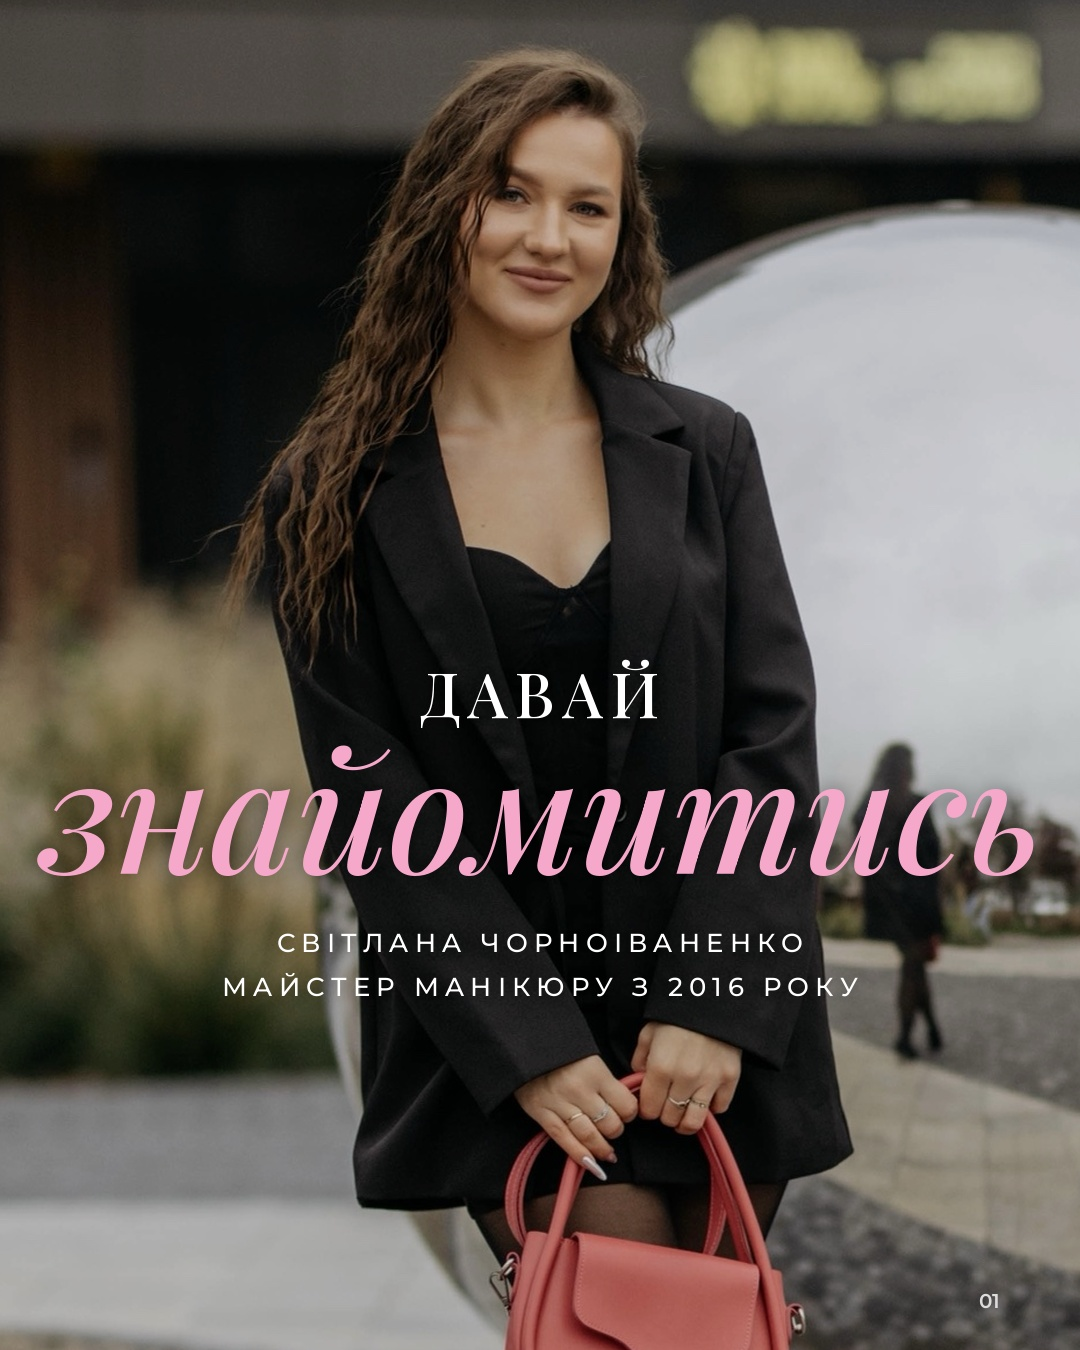
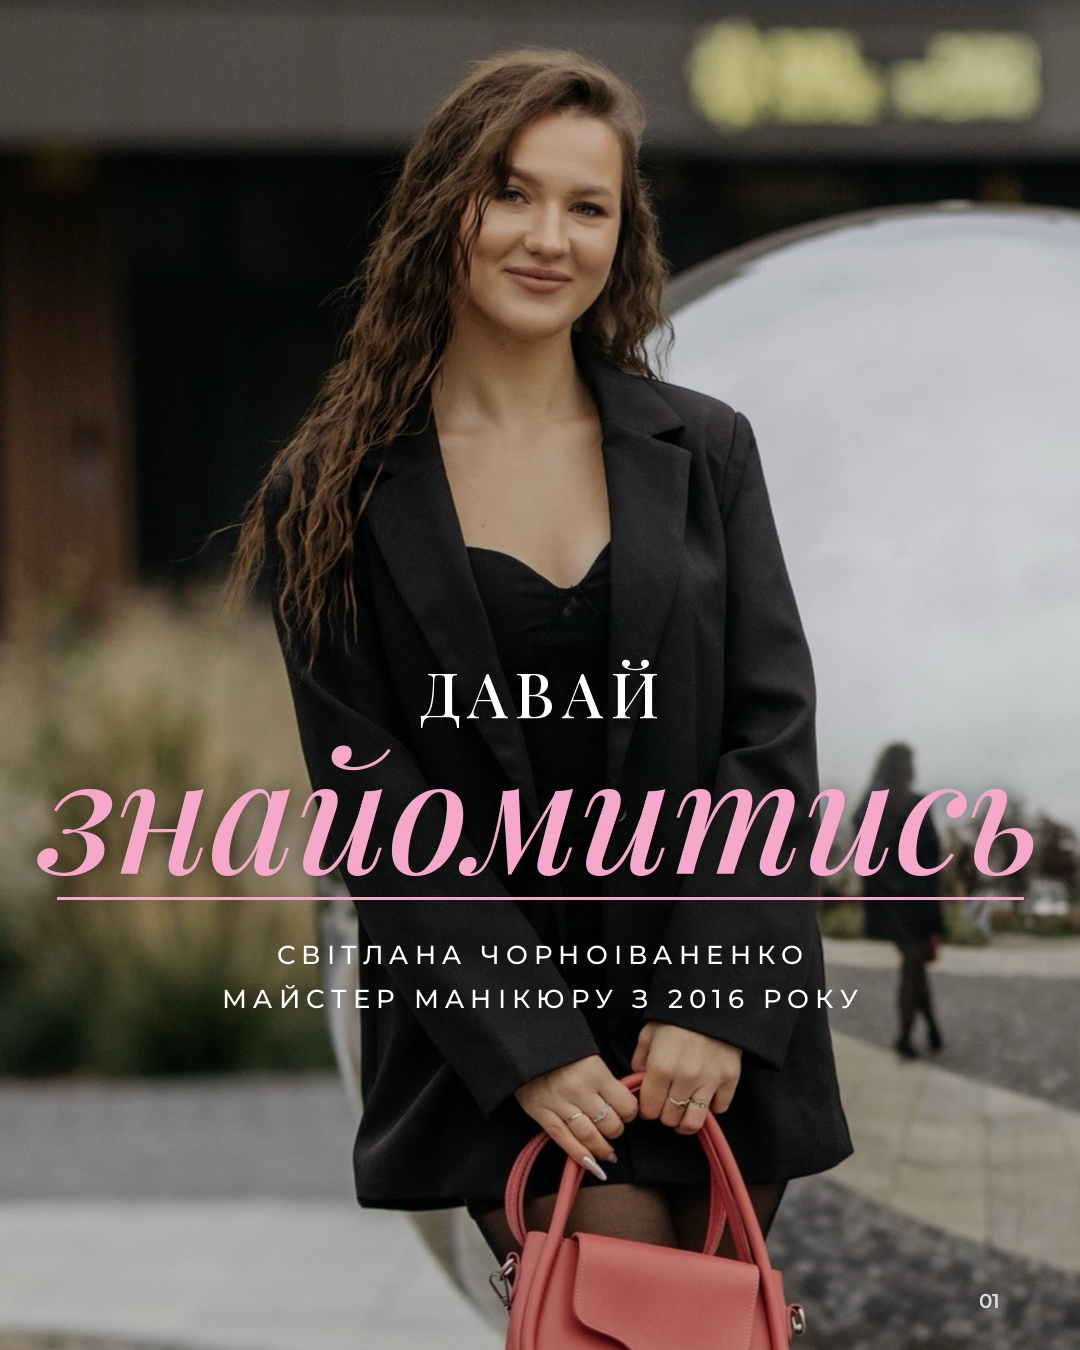
Intro cover: underline under знайомитись
Claude-Session: https://claude.ai/code/session_0191xVL2hi5vHUvM1ix6pauC

Changed region(s): [[0.2139, 0.6844, 0.7944, 0.7467]]

diff --git a/karusel_znaiomstvo/cover_bw.py b/karusel_znaiomstvo/cover_bw.py
@@ -19,7 +19,8 @@ while True:
     if bb[2]-bb[0]<=W-70: break
     sz-=2
 yb=y+105; d.text(((W-(bb[2]-bb[0]))/2-bb[0],yb-bb[1]),'знайомитись',font=big,fill=LPINK)
-ys=yb+(bb[3]-bb[1])+50
+ly=yb+(bb[3]-bb[1])+22; bw=bb[2]-bb[0]; d.line([((W-bw)/2+20,ly),((W+bw)/2-20,ly)],fill=LPINK,width=3)
+ys=ly+40
 sf=F('Montserrat%5Bwght%5D.ttf',26,500)
 center('СВІТЛАНА ЧОРНОІВАНЕНКО',sf,ys,WHITE,6)
 center('МАЙСТЕР МАНІКЮРУ З 2016 РОКУ',sf,ys+44,WHITE,6)

diff --git a/karusel_znaiomstvo/cover_col.py b/karusel_znaiomstvo/cover_col.py
@@ -19,7 +19,8 @@ while True:
     if bb[2]-bb[0]<=W-70: break
     sz-=2
 yb=y+105; d.text(((W-(bb[2]-bb[0]))/2-bb[0],yb-bb[1]),'знайомитись',font=big,fill=LPINK)
-ys=yb+(bb[3]-bb[1])+50
+ly=yb+(bb[3]-bb[1])+22; bw=bb[2]-bb[0]; d.line([((W-bw)/2+20,ly),((W+bw)/2-20,ly)],fill=LPINK,width=3)
+ys=ly+40
 sf=F('Montserrat%5Bwght%5D.ttf',26,500)
 center('СВІТЛАНА ЧОРНОІВАНЕНКО',sf,ys,WHITE,6)
 center('МАЙСТЕР МАНІКЮРУ З 2016 РОКУ',sf,ys+44,WHITE,6)
